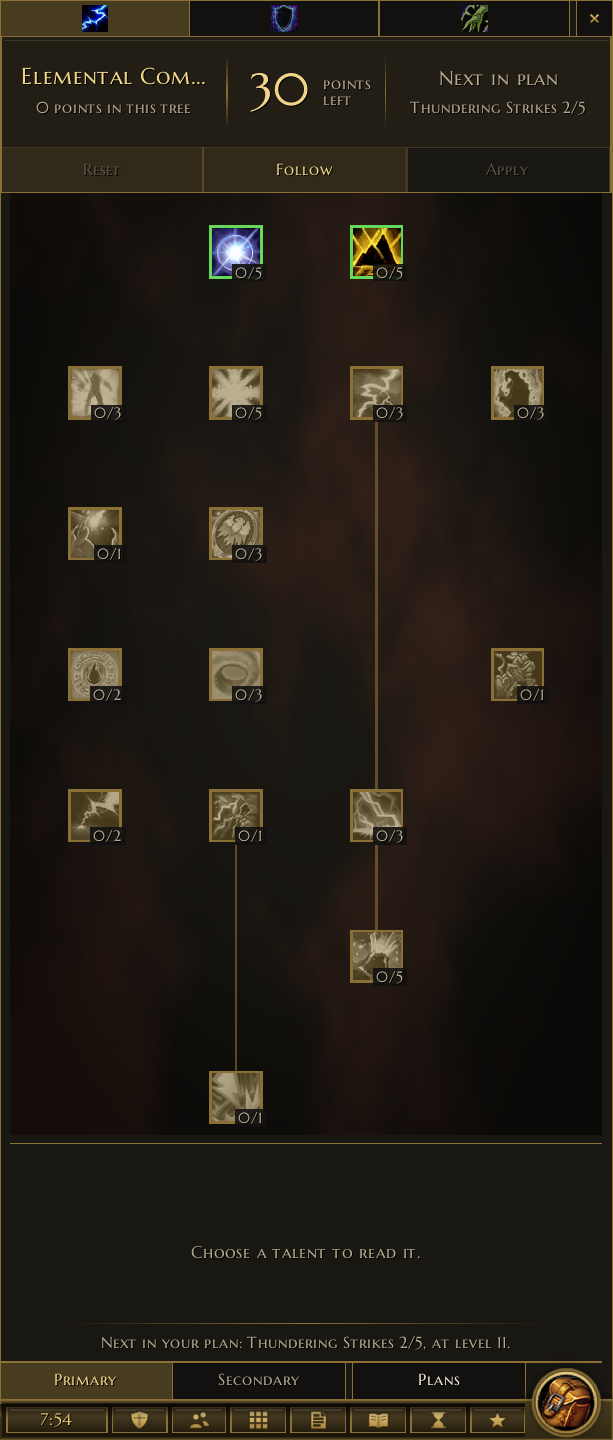
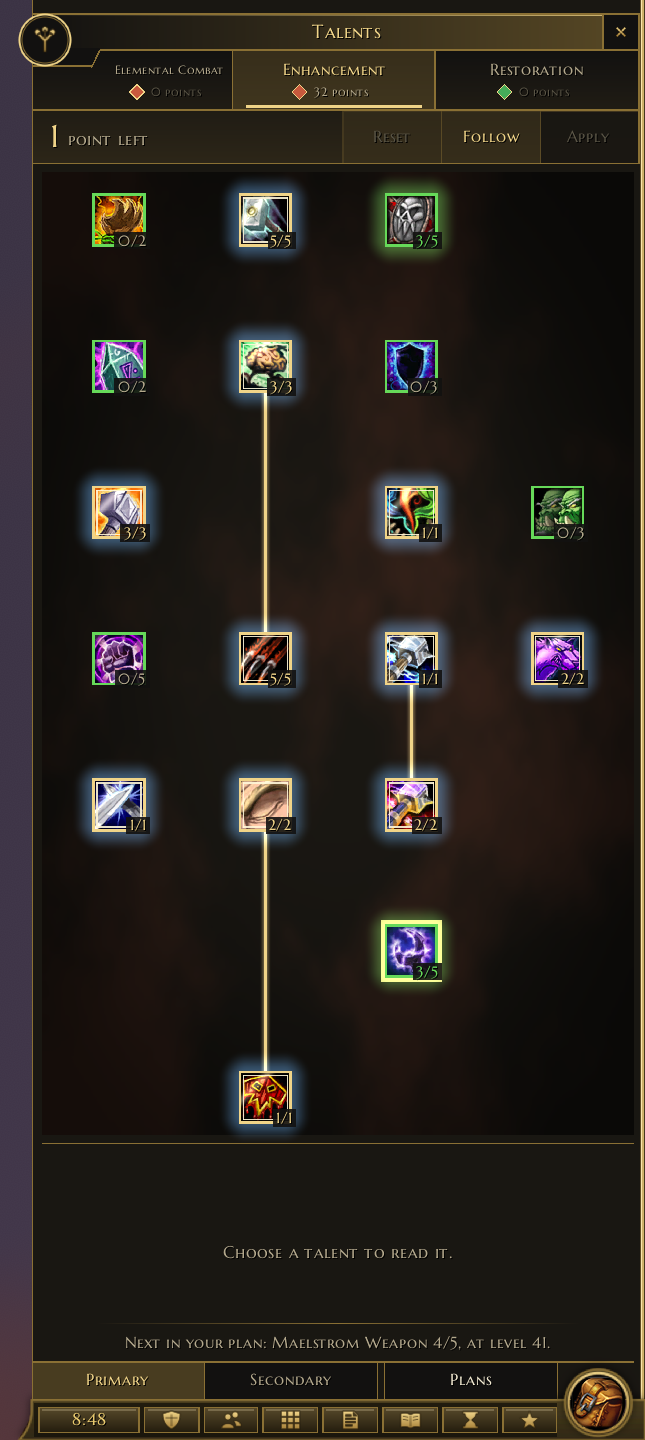
Showcase: new talents and spellbook shots, professions added

diff --git a/README.md b/README.md
@@ -78,7 +78,11 @@ A quest's own page spells out where it sits in its chain, step by step, with its
 
 | Spellbook | Macros |
 |:---:|:---:|
-| ![The spellbook: spells by school, with ranks, costs and click-cast bindings](https://raw.githubusercontent.com/ahrymx/ahrymx.MedalUI/main/showcase/spellbook.png) | ![The macros page, with a macro's editor](https://raw.githubusercontent.com/ahrymx/ahrymx.MedalUI/main/showcase/macros.png) |
+| ![The spellbook's Restoration tab: spells not on your bars, on your bars and passive, with ranks, cast times, mana costs and click-cast bindings](https://raw.githubusercontent.com/ahrymx/ahrymx.MedalUI/main/showcase/spellbook.png) | ![The macros page, with a macro's editor](https://raw.githubusercontent.com/ahrymx/ahrymx.MedalUI/main/showcase/macros.png) |
+
+| Professions |
+|:---:|
+| ![The professions overview: primary professions with their skill bars, the secondary ones, cooldowns to track, and the camping row](https://raw.githubusercontent.com/ahrymx/ahrymx.MedalUI/main/showcase/professions.png) |
 
 - **Bags** (inspired by Baganator) put the backpack, bags and reagent bag in one window. Items are grouped (New, Equipment, Consumables, Quest items, Trade goods, Junk), and the equipped bags open in a drawer above.
 - **Alt+click** an item to lock it: it shows a padlock and can't be sold or destroyed.
@@ -91,7 +95,7 @@ A **plan** lays out a build by level. In plan mode the tree turns to a drafting 
 
 | Talents | A talent's ranks |
 |:---:|:---:|
-| ![The talents window: the Elemental tree on its ember wash, under the console with the points left and the next talent in your plan](https://raw.githubusercontent.com/ahrymx/ahrymx.MedalUI/main/showcase/talents.png) | ![The Restoration tree on its green wash, Water Shield chosen: its rank, what it needs, and what it does](https://raw.githubusercontent.com/ahrymx/ahrymx.MedalUI/main/showcase/talent-details.png) |
+| ![The talents window: the Enhancement tree on its ember wash, its learned talents lit, under the console with the point left, Reset, Follow and Apply, and the next talent in your plan](https://raw.githubusercontent.com/ahrymx/ahrymx.MedalUI/main/showcase/talents.png) | ![The Restoration tree on its green wash, Water Shield chosen: its rank, what it needs, and what it does](https://raw.githubusercontent.com/ahrymx/ahrymx.MedalUI/main/showcase/talent-details.png) |
 
 | Drafting a plan | Talent plans |
 |:---:|:---:|
